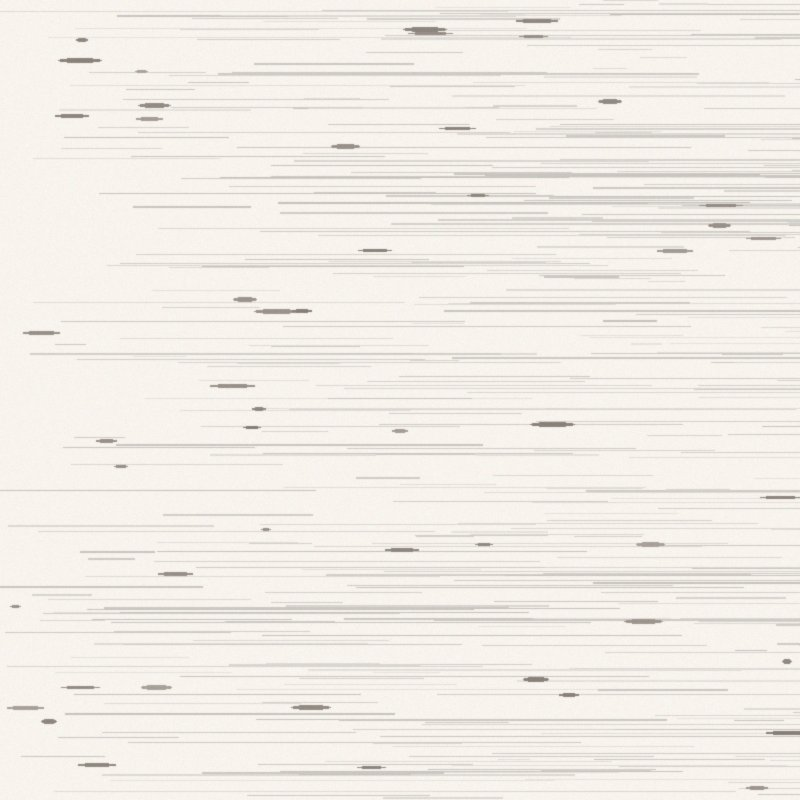
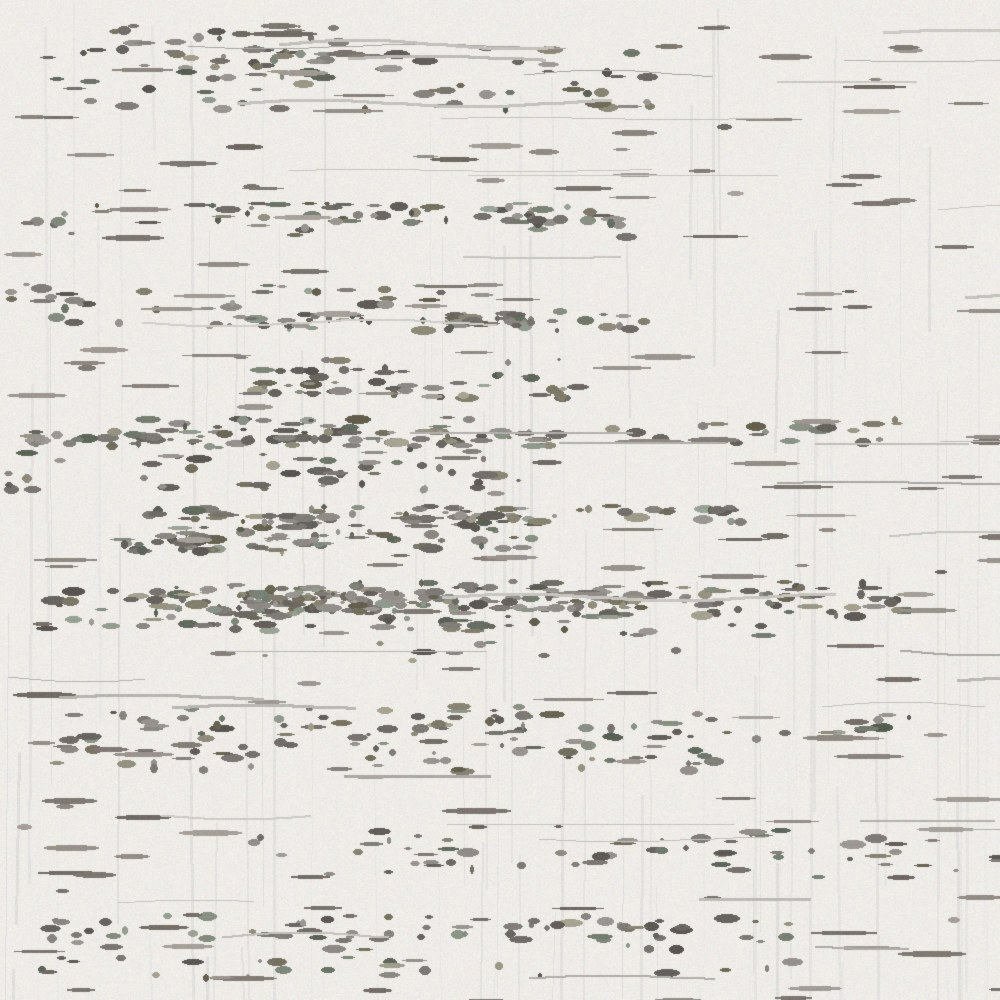
Birkenrinde v2: grober, mit Flechten-Struktur

diff --git a/src/app.css b/src/app.css
@@ -32,7 +32,7 @@ a, button, [role="button"], input[type="submit"], .grid-item {
 html, body {
 	height: 100%;
 	background: var(--color-bg) url('/le-birk/images/birch-bark.jpg') repeat;
-	background-size: 800px;
+	background-size: 1000px;
 	color: var(--color-text);
 	font-family: var(--font-body);
 	font-weight: 300;
